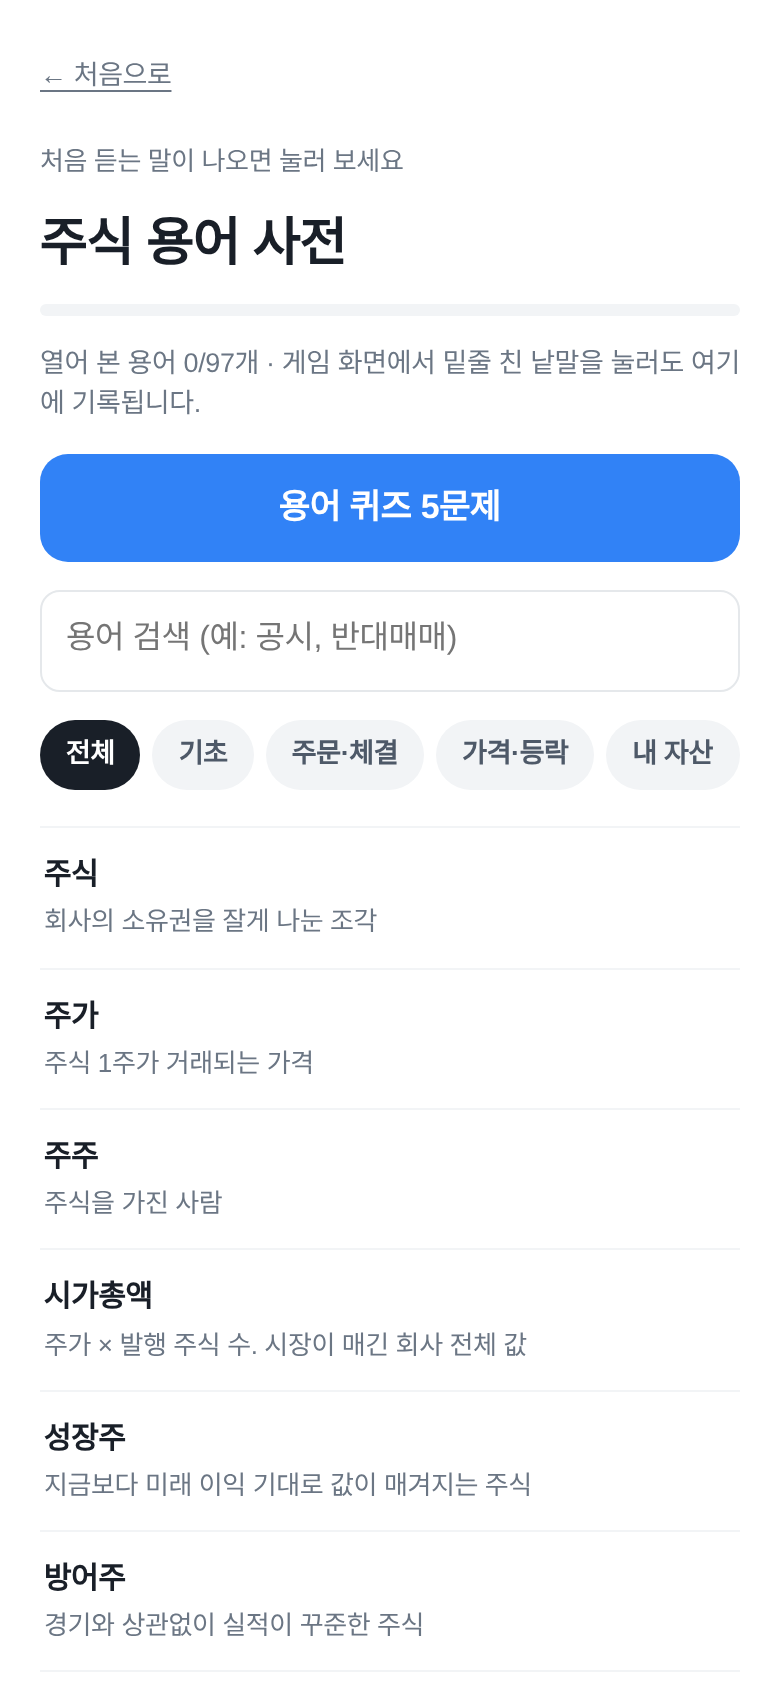
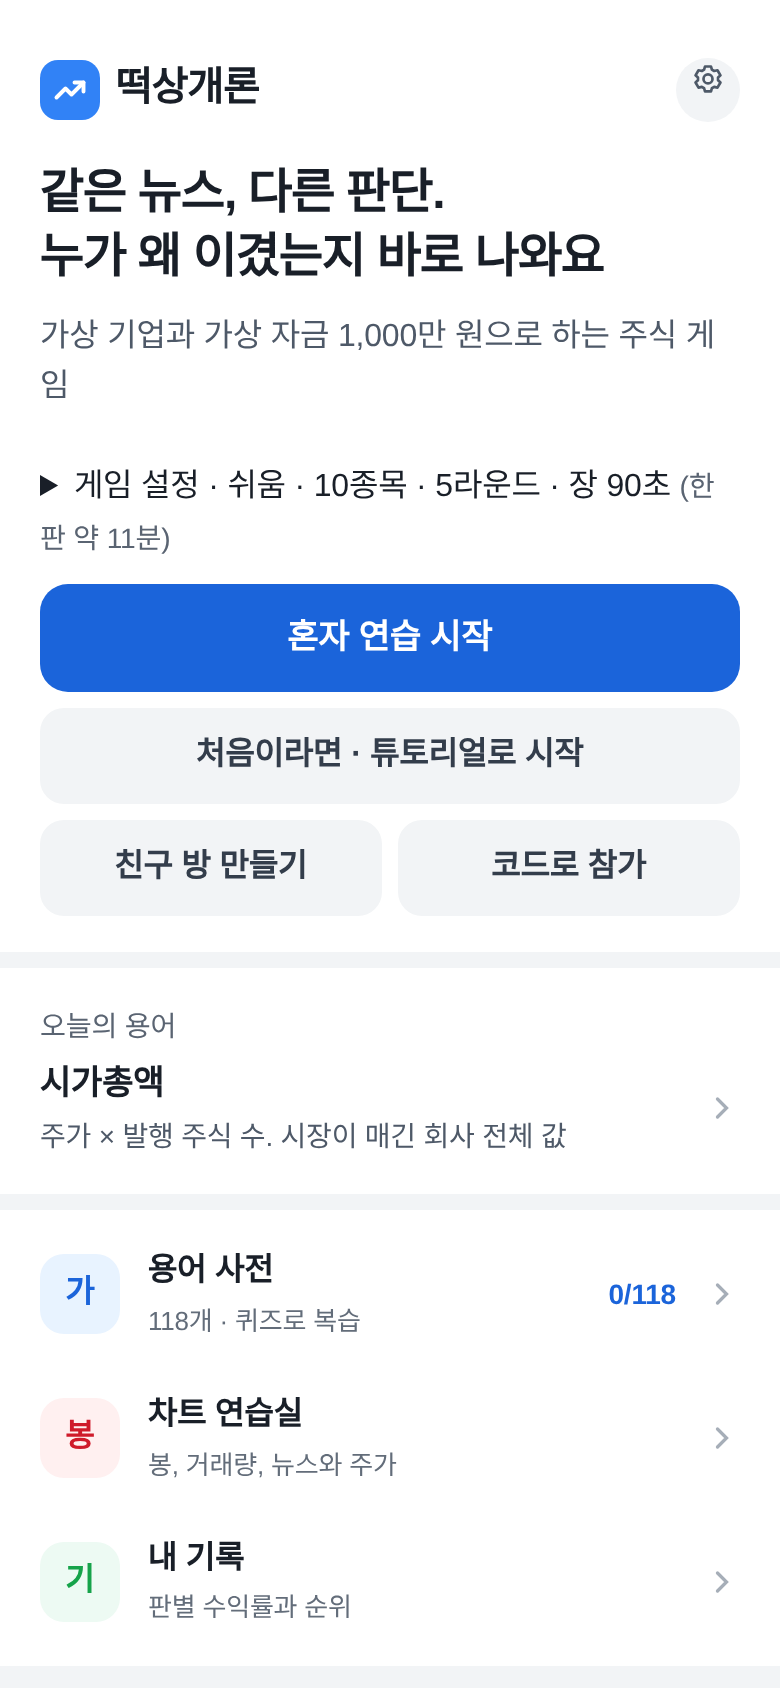
용어 사전·NPC 설명의 옛 숫자 수정, README 보강, 화면 캡처 갱신
종목을 30→50개, 업종을 6→10개로 늘린 뒤 설명 네 곳이 옛 숫자로 남아
있었습니다. 가르치는 화면이라 틀린 숫자가 그대로 있으면 안 됩니다.

- 용어 '주식': 30개 기업 → 50개, 선택지에 50개 추가
- 용어 '업종': 업종 6개·관련 종목 3개 → 업종 10개·관련 종목 4개
- 용어 '분산 투자'와 npc.ts의 분산형 설명: "6종목을 15%씩"은 사실이 아닙니다.
  pickDiversified는 이번 판에 나온 업종마다 하나씩 고르므로 수가 판마다 다릅니다
- 용어 '방어주': 타르멜(50bp)은 리베아 수처리와 동률이라 "가장 작습니다"를
  "가장 작은 축입니다"로

검증한 것(고칠 필요 없었음): 수수료 0.10%, 거래세 0.20%, 상·하한가 ±20%,
호가 5단계, 스프레드 10원, bp 환산, 시작 자금 1,000만 원, linkBeta 0.35~0.6,
차트 연습실의 영업이익률(5%/15%)과 분산 비중(79.0%) 계산, 용어 퀴즈에
정답이 둘인 문항 0건.

README에 평균 단가 설명과 학술제 인수인계 문서 링크를 넣고, 홈·용어 사전·
차트 연습실 캡처를 다시 찍었습니다(11/10 이후 화면이 바뀌었습니다).

Claude-Session: https://claude.ai/code/session_01HgPK7bGpc34nsHojvnCgSR

diff --git a/shared/glossary.ts b/shared/glossary.ts
@@ -33,7 +33,7 @@ export const TERMS: Term[] = [
   { id: 'stock', term: '주식', en: 'Stock', category: 'basic',
     short: '회사의 소유권을 잘게 나눈 조각',
     body: '주식 1주를 가지면 그 회사의 아주 작은 주인이 됩니다. 회사가 잘되면 주식의 가치가 오르고, 이익 일부를 배당으로 받기도 합니다.',
-    game: '게임 속 30개 기업은 모두 지어낸 가상 기업입니다. 혼자 연습과 친구 대전에서는 판을 시작할 때 10개, 20개, 30개 중 고를 수 있습니다.',
+    game: '게임 속 50개 기업은 모두 지어낸 가상 기업입니다. 혼자 연습과 친구 대전에서는 판을 시작할 때 10개, 20개, 30개, 50개 중 고를 수 있습니다.',
     match: ['주식'], related: ['share-price', 'market-cap', 'shareholder'] },
   { id: 'share-price', term: '주가', category: 'basic',
     short: '주식 1주가 거래되는 가격',
@@ -56,7 +56,7 @@ export const TERMS: Term[] = [
   { id: 'defensive-stock', term: '방어주', en: 'Defensive stock', category: 'basic',
     short: '경기와 상관없이 실적이 꾸준한 주식',
     body: '전기·수도·통신·생활필수품처럼 경기가 나빠도 수요가 크게 줄지 않는 업종의 주식입니다. 오를 때 덜 오르지만, 내릴 때도 덜 내리는 편입니다.',
-    game: '타르멜 물순환(G06)이 방어주 역할입니다. 변동 폭이 가장 작습니다.',
+    game: '타르멜 물순환(G06)이 방어주 역할입니다. 변동 폭이 가장 작은 축입니다.',
     match: ['방어주'], related: ['growth-stock', 'long-term-contract'] },
 
   /* ---------- 주문·체결 ---------- */
@@ -391,7 +391,7 @@ export const TERMS: Term[] = [
   { id: 'sector', term: '업종', en: 'Sector', category: 'economy',
     short: '비슷한 일을 하는 회사들의 묶음',
     body: '반도체, 운송, 식품처럼 하는 일이 비슷한 회사끼리 묶은 것입니다. 같은 업종은 같은 뉴스·원가·수요에 함께 영향을 받는 일이 많습니다.',
-    game: '게임에는 업종 6개가 있고, 업종마다 대장주 1개와 관련 종목 3개가 있습니다. 같은 업종은 종목 아이콘 색이 같습니다.',
+    game: '게임에는 업종 10개가 있고, 업종마다 대장주 1개와 관련 종목 4개가 있습니다. 같은 업종은 종목 아이콘 색이 같습니다.',
     match: ['업종'], related: ['leader-stock', 'co-movement', 'diversification'] },
   { id: 'leader-stock', term: '대장주', en: 'Sector leader', category: 'economy',
     short: '한 업종에서 가장 주목받고 흐름을 이끄는 종목',
@@ -439,7 +439,7 @@ export const TERMS: Term[] = [
   { id: 'diversification', term: '분산 투자', en: 'Diversification', category: 'risk',
     short: '서로 다르게 움직이는 여러 자산에 나눠 투자',
     body: '"달걀을 한 바구니에 담지 마라"는 말입니다. 한 회사의 사고로 계좌 전체가 무너지는 위험을 줄입니다. 다만 시장 전체가 내리는 위험은 분산으로도 피하기 어렵습니다.',
-    game: 'NPC 분산형은 업종마다 한 종목씩 6종목을 15%씩 사고 한 종목이 25%를 넘지 않게 관리합니다. 같은 업종끼리는 함께 움직이므로, 종목 수보다 업종을 나누는 것이 중요합니다.',
+    game: 'NPC 분산형은 이번 판에 나온 업종마다 변동이 가장 작은 종목을 하나씩 15%씩 사고, 한 종목이 25%를 넘지 않게 관리합니다. 같은 업종끼리는 함께 움직이므로, 종목 수보다 업종을 나누는 것이 중요합니다.',
     match: ['분산 투자', '분산투자', '나눠서 담'],   /* '분산'만 쓰면 '분산 전력 장치'(업종명)에 잘못 붙습니다 */ related: ['concentration', 'systematic-risk', 'portfolio'] },
   { id: 'concentration', term: '몰빵(집중 투자)', category: 'risk',
     short: '한 종목에 돈 대부분을 넣는 것',

diff --git a/server/src/npc.ts b/server/src/npc.ts
@@ -40,7 +40,7 @@ export const NPC_RULES: Record<NpcType, { label: string; rule: string; decide: (
   },
   diversifier: {
     label: '분산형',
-    rule: '첫 라운드에 업종마다 변동이 가장 작은 종목 하나씩, 6종목을 15%씩 사고, 이후에는 한 종목이 평가액의 25%를 넘으면 초과분을 팝니다.',
+    rule: '첫 라운드에 이번 판 업종마다 변동이 가장 작은 종목을 하나씩 15%씩 사고, 이후에는 한 종목이 평가액의 25%를 넘으면 초과분을 팝니다.',
     decide: ({ round, prices, ctx }) => {
       const codes = Object.keys(prices) as StockCode[];
       if (round === 1) return pickDiversified(codes).map(code => ({ code, side: 'buy' as const, qty: Math.floor(ctx.cash * .15 / prices[code]) }));

diff --git a/README.md b/README.md
@@ -103,7 +103,7 @@ flowchart LR
 이름이나 연락처를 받지 않습니다. 참가자는 "사슴 31" 같은 자동 이름으로 들어오고, 재접속 토큰과 개인 기록은 그 기기에만 남습니다.
 </details>
 
-프로젝트의 목적·구조·방향성은 [`docs/PROJECT.md`](docs/PROJECT.md), AI 작업 규칙은 [`CLAUDE.md`](CLAUDE.md)에 있습니다.
+프로젝트의 목적·구조·방향성은 [`docs/PROJECT.md`](docs/PROJECT.md), AI 작업 규칙은 [`CLAUDE.md`](CLAUDE.md)에 있습니다. 학술제 모드를 맡았다면 [`docs/FESTIVAL-MODE.md`](docs/FESTIVAL-MODE.md)를 읽으세요.
 
 ## 실행 방법
 
@@ -174,7 +174,7 @@ android/   Capacitor Android 프로젝트
 - 호가창: 시세 위로 매도 호가, 10원 아래부터 매수 호가가 10원 간격으로 쌓여 있다고 보고(단계당 평균 150만 원, 대표 종목 1.5배), 시장가는 가장 좋은 호가부터 채웁니다. 큰 주문일수록 평균 체결가가 불리해집니다(슬리피지). 주문은 시세·종료가를 바꾸지 않습니다.
 - 종목은 50개(업종 10개 × 5)입니다. 업종 10개 모두에 사건(뉴스)이 있습니다. 한 판에는 이번 판 사건이 다루는 종목과 같은 업종 종목, 그리고 무작위 종목이 섞여 나옵니다. 혼자 연습과 친구 대전은 시작 전에 난이도(쉬움·실전, 기본 쉬움), 종목 수(10·20·30·50개, 기본 10개), 라운드 수(3·5·8·10회), 장 시간(45·60·90·120초)을 고를 수 있고, 고른 값은 이 기기에 저장됩니다. 쉬움은 시장가로만 사고팔고 호가창·지정가·손절·익절·슬리피지 숫자를 숨깁니다. 뉴스·속보·돌발 카드·VI·배당은 두 난이도에서 똑같이 나옵니다.
 
-주문 시간에는 1초 시세(시장·종목 변동과 장중 속보 반응, 사건 결과 제외)가 움직이고, 시장가는 그 시세로 바로, 지정가는 시세가 닿으면 지정가로 체결합니다. 사건 결과는 장 마감 때 반영되어 종료가가 됩니다. 수수료는 주문별 거래대금의 0.10%를 원 단위로 올리고, 팔 때는 증권거래세 0.20%(원 미만 버림)가 더 붙습니다. 참가자 주문량은 가격에 영향을 주지 않습니다.
+주문 시간에는 1초 시세(시장·종목 변동과 장중 속보 반응, 사건 결과 제외)가 움직이고, 시장가는 그 시세로 바로, 지정가는 시세가 닿으면 지정가로 체결합니다. 사건 결과는 장 마감 때 반영되어 종료가가 됩니다. 수수료는 주문별 거래대금의 0.10%를 원 단위로 올리고, 팔 때는 증권거래세 0.20%(원 미만 버림)가 더 붙습니다. 평균 단가에는 살 때 낸 수수료가 들어가므로, 사자마자 평가손익이 수수료만큼 마이너스로 보입니다. 참가자 주문량은 가격에 영향을 주지 않습니다.
 
 ## 남용 방지
 

diff --git a/docs/PROJECT.md b/docs/PROJECT.md
@@ -262,4 +262,5 @@ docs/      이 문서
 | 2026-11 | 마지막 라운드의 결과 시간에는 "최종 결과까지"로 표시 | 다음 라운드가 없는데 "다음 라운드"로 세고 있었음 |
 | 2026-11 | 판 끝 순위표에 내 평가액과의 차이를 표시 | "3위"보다 "2위와 38만 원 차이"가 더 와닿는다는 요청 |
 | 2026-11 | 대기실의 방 나가기를 아래에서 오른쪽 위로 옮김 | 나가는 길을 찾기 어려웠음 |
+| 2026-11 | 용어 사전·NPC 설명에서 종목 30개·업종 6개 시절 숫자를 현재 값(50개·10개)으로 고침 | 종목을 30→50개, 업종을 6→10개로 늘린 뒤 설명 네 곳이 옛 숫자로 남아 있었음. 가르치는 화면에 틀린 숫자가 있으면 안 됨 |
 | 2026-11 | Node 최소 버전 20 → 22 | `npm test`의 `tests/*.test.ts` 패턴을 Node 20은 못 펼쳐 CI에서 테스트가 0개로 실패함 |
